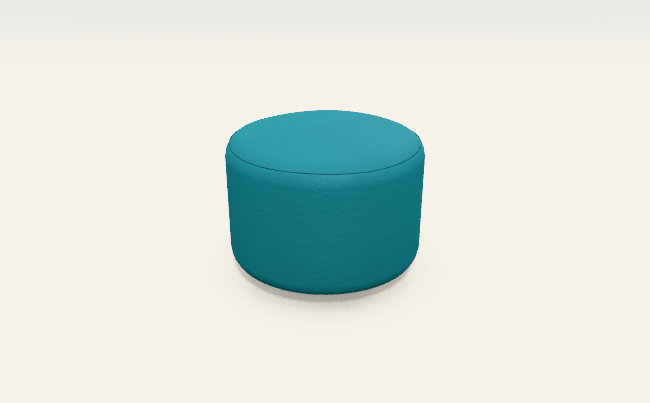
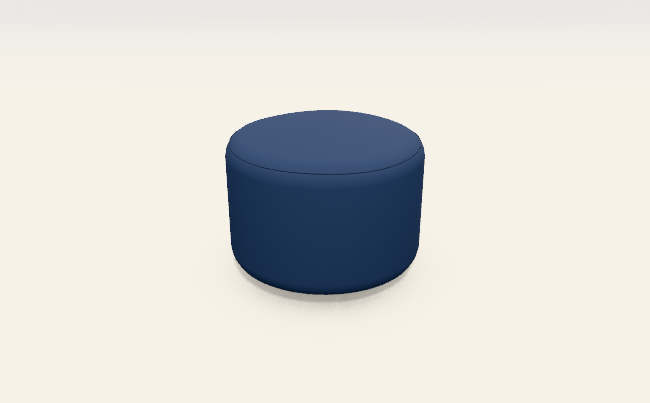
Stockholm pouf donkerblauw zoals op de foto; standaardstikking nagekeken en als vraag voor de klant genoteerd
Claude-Session: https://claude.ai/code/session_01PczewFp9M8BS44vqTSpk6u

Changed region(s): [[0.3385, 0.268, 0.6769, 0.7444]]

diff --git a/packages/core/voorbeelden/modellen.ts b/packages/core/voorbeelden/modellen.ts
@@ -465,7 +465,8 @@ export const zetelModellen: ModelDefinitie[] = [
     elementen: rij([['poef', 59, 59, { poefvorm: 'rond' }]]),
   }, 'P-Tumble', MATEN_WEBSITE),
   model('stockholm', 'Stockholm pouf', POEF, 'Ronde pouf in velours, in twee formaten.', {
-    hoofdmateriaal: 'velours_petrol', opties: { poten: 'verdekt', poothoogte: 'laag' }, elementen: rij([['poef', 60, 60, { poefvorm: 'rond' }]]),
+    // Op de foto donkerblauw (14/11). Geen eigen pagina met maten; op de foto loopt de pouf naar boven smaller toe.
+    hoofdmateriaal: 'chenille_nachtblauw', opties: { poten: 'verdekt', poothoogte: 'laag' }, elementen: rij([['poef', 60, 60, { poefvorm: 'rond' }]]),
   }, 'P-Stockholm'),
   model('kanto', 'Kanto pouf', POEF, 'Vierkante pouf, hier in een stof met patroon.', {
     hoofdmateriaal: 'jacquard_ruit', opties: { poten: 'verdekt', poothoogte: 'laag' }, elementen: rij([['poef', 45, 45, { poefvorm: 'vierkant' }]]),

diff --git a/docs/overdracht.md b/docs/overdracht.md
@@ -26,7 +26,7 @@
 | **Analyse ronde vormen (13/11)** | Vraag van Jonas: hoe gaan we om met ronde vormen, en wat kan beter (ook ongewone ideeën)? Alleen onderzoek, geen code gewijzigd. Verslag: `docs/analyse-ronde-vormen.md` (in Obsidian: *Analyse ronde vormen in de 3D*).<br>• **Twee manieren, geen van beide af:** *ringen* (10 kuipfauteuils, poefs: strak en licht, stof volgt de vorm, maar delen steken door elkaar: mes aan het wanduiteinde van Ross) en *raster* (Doha, Montego, Pebble, de armen: smelt samen, maar bobbelige naad, stof volgt de vorm niet, ±zes keer zoveel driehoeken, berekend).<br>• **Proef:** een raster van 1 cm lost de naad van Pebble niet op (vier keer zwaarder, eerder rafeliger). Gemeten oorzaak: waar de bovenrand van een wand steil zakt, rekent de motor de vorm fout (Pebble, Ross; niet bij Doha).<br>• **Advies, in volgorde:** (A) vier herstellingen (steile rand van een wand, kop en onderbouw van de fauteuils, rolarm, close-ups in de beeldvergelijking), (B) proef: het net van de ringen leggen op de zachte vorm, ook op een echte overgang (rug van Doha, arm bij *Zacht*), (C) ronde vormen als gegevens (ruggengraat met doorsneden) in plaats van code per model.<br>• **Wacht op Jonas:** mogen A en B gebouwd worden; tekeningen uit de 3D-vorm halen (verandert de tekeningen); een scan door de klant (raakt "geen scans"); productfoto's lokaal gebruiken om de vorm automatisch te laten passen. |
 | **Herstellingen ronde vormen (13/11)** | Na de analyse, met akkoord van Jonas ("1 ja"). Vier herstellingen, elk met tests en een eigen commit; verslag en beelden onderaan `docs/analyse-ronde-vormen.md`.<br>• **Steile rand van een wand** (`zachtevorm.ts`): de hoogte van de rand loopt nu vloeiend door (verstekken in plaats van het dichtste punt) en de afstand klopt. Punten met een verkeerde afstand of richting: Pebble 61 % → 0 %, Ross 74 % → 0 %. De naad van Pebble is strak; Doha en Montego ongewijzigd (0,00 %).<br>• **Kuipfauteuils:** ronde kop aan het wanduiteinde (vroeger een mes), onderbouw overal binnen de wand (vroeger een dun streepje bij Ross), ronde onderrand bij de zwevende schaal van Karl (zoals op de foto).<br>• **Arm met ronde bovenkant** (*rond*, *Engels*): één doorsnede zoals in het vooraanzicht en op de foto van Zora, met bies; vroeger een cilinder op een blok, hoger dan de tekening. Verandert de 3D van Zora, Mabel 2-zit en Mabel méridienne.<br>• **Beeldvergelijking:** drie close-ups erbij (`pebble-naad`, `ross-kop`, `zora-arm`).<br>• **Gecontroleerd:** prijs, offerte, boven- en vooraanzicht van de 42 modellen ongewijzigd; 256 tests.<br>• **Niet gepubliceerd:** de artifact en de configurators in `doorsturen/` staan nog op de versie van 5/11, tot Jonas de beelden goedkeurt.<br>• **Wacht op Jonas:** goedkeuring van de beelden; Mabel 2-zit is op de foto een kuip (rechtzetten raakt de prijs); bevestigen dat de tekeningen uit de 3D-vorm mogen komen (zijn antwoord "3 ja" gelezen als vraag 2); daarna de proef B (net van de ringen op de zachte vorm). |
 | **Fauteuils naar de productfoto's (13/11)** | Jonas over de herstellingen: "de stoelen lijken er totaal niet op". Alle veertien fauteuils naast hun productfoto's gelegd; lijst per model en beelden in `docs/nalopen-modellen.md`.<br>• **Oorzaak:** de opbouw. Bij de klant een dikke, vaste, ronde zitting met een dunne schaal erachter op een eigen onderstel; bij ons een dikke wand met een boogrug, een los kussen en gewone poten. Ook de maten weken af (de fauteuils hadden nooit de maten van de site gekregen).<br>• **Motor:** de echte opbouw als gegevens per model (`vormgeving.kuip`: `profiel`, `zitTrommel`, `zitRand`, `schaalOp`, `frameDik`), een bies langs de rand van de schaal, en twee nieuwe pootkeuzes in de catalogus (*Houten frame op vier poten*, *Vier poten met kruis*). Het type fauteuil mag tot 160 cm breed.<br>• **Beslist door Jonas:** maten van de site ja; vaste zitting en onderstel als echte keuzes ja; grens 160 cm ja; "eerst bijsturen": bij Mabel kwam de leuning te ver naar voren. Rechtgezet: ze stopt rond het midden van de zitdiepte en zakt tot op de zitting.<br>• **Omgebouwd:** Milton (963 → 884 euro), Mabel 1-zit (990 → 1.007) en Mabel 2-zit als kuip van 150 cm (1.552 → 1.163). Hun boven- en vooraanzicht zijn mee veranderd. De andere 39 modellen: prijs, tekeningen en 3D identiek; beeldvergelijking 0,00 %, met Milton en Mabel 2-zit als nieuwe referentie. 270 tests.<br>• **Oordeel van Jonas (13/11):** "Ja zijn goed zo, de mabel meridienne wijkt wel nog af. Graag alles op deze manier opbouwen." De bies en de poothoogte van Milton zijn daarmee aanvaard (zo gemeld aan Jonas). Vervolg: zie de volgende rij.<br>• **Open afwijking:** de zitdiepte van Mabel (site 49 cm, bij ons ±58 cm doordat de leuning 7 cm dik is).<br>• **Nog te doen daarna:** de sofa's, zetelbedden en poefs nalopen; de proef met het volgnet (Jonas: niet schrappen); de tekeningen uit de 3D-vorm (bevestigd).<br>• **Opvatting vastgelegd** (vraag van Jonas: "de nieuwe manier van 3D lijkt mij een stuk volwassener"): zeven regels bovenaan `docs/3d-technieken.md` (in Obsidian: *3D-technieken - kennisbank*), met de nieuwe werkwijze in tien stappen en vijf nieuwe lessen.<br>• Niets hiervan is gepubliceerd: de artifact en de configurators in `doorsturen/` staan nog op 5/11. |
-| **Alle fauteuils omgebouwd (13/11, vervolg)** | Na het akkoord van Jonas op Milton en de Mabels. Eén model per stap en per commit, telkens: maten van de site in een test, foto / vroeger / nu naast elkaar, boven- en vooraanzicht bekeken, prijs regel per regel, de andere modellen ongewijzigd (momentopname).<br>• **Omgebouwd** (prijs voor → na, alle prijzen verzonnen): Mabel méridienne als één kuip (1.938 → 1.401), Fraser (842 → 835), Satie met één rugkussen (1.018 → 959; melding van Jonas: "Satie heeft maar 1 kussen"), Quin met vier kussens zoals op de productpagina (1.341 → 1.393), Ross (768 → 806), Sullivan (998 → 954), Karl (990 → 970), Tumble (1.084 → 1.081), Manon (1.050 → 966) en de Amusette fauteuil op de maten van de site (1.520 → 1.473). Pebble bleef zoals goedgekeurd op 5/11. Tabel, beelden en open afwijkingen: `docs/nalopen-modellen.md`.<br>• **Motor, nieuw als gegevens per model:** schuine poten onder een frame (`framePoten`, `Blok.schuin`; ook Milton en Mabel), `zitNaad` (zitting in twee lagen), `zitIn` (de schaal steekt rond de trommel uit), `frameKruis` (ring met kruis), `kussenHoog`, losse kussens als lens die tegen de rand van de schaal leunen, een schaal op een bolle zitting (`schaalOp`) die aansluit op de zijkant. Boven- en vooraanzicht volgen (zelfde bron).<br>• **Rechtgezet onderweg:** rechte poten; een rugkussen dat van achter door de schaal stak; drie kussens die tot één rug versmolten; gedraaide kussens recht getekend in het bovenaanzicht; de rug van Tumble als losse rol boven de zitting. Twee leesfouten uit de eerste lijst: Manon is niet scheef maar symmetrisch, en de schaal van Fraser loopt tot onderaan.<br>• **Prijsregels uit de foto, niet apart gevraagd:** bies op Satie (+36), Ross (+29), Manon (+38) en Mabel méridienne (+52); poothoogte op maat (+40) bij Sullivan (vroeger een draaivoet). Gemeld aan Jonas.<br>• **Zitdiepte nagerekend:** bij Fraser, Ross, de Mabels, Sullivan, Tumble, Manon en Quin is de zitting 3 tot 13 cm dieper dan op de site, omdat onze schaal overal even dik is en recht staat. Voorstel in `docs/nalopen-modellen.md` (een schaal die dun is aan de rand en dikker bij de zitting); wacht op Jonas.<br>• **Wat nog afwijkt:** de rug van Sullivan helt op de foto achterover en de schaal van Manon waaiert uit (de motor kan een schaal niet laten hellen); het frame van Karl (achterpoten tot achter de rug); de vier kussens van Quin staan netter dan op de foto; armen even dik als de schaal (Ross, Sullivan); ronde in plaats van vierkante poten.<br>• **Controles:** 292 tests, typecheck, beeldvergelijking 0,00 % op alle bestaande beelden; nieuwe referenties voor Fraser, Satie, Quin, Karl en Tumble, de close-up `ross-kop` staat op de nieuwe armkop.<br>• **Hockers en poefs:** Sullivan hocker (62 × 62 × 42, zelfde onderstel als de fauteuil; 478 → 493), Tumble pouf (⌀ 59, hoogte 45, bol; 371 → 392) en Pebble pouf (82 × 61 × 42; 518 → 455). Een poef kan een eigen hoogte, een bolle rand en een rond frame krijgen. De Fraser en de Mabel hocker zijn niet aangeraakt (geen foto of maten).<br>• **Sofa's, zetelbedden en poefs nagelopen** (eerste doorgang op de kleine foto's, geen model gewijzigd): de opbouw van de veertien sofa's klopt; de zetelbedden Ziggy, Zora, Daizy Classic en Daizy Slim hebben op de site een technische tekening (zithoogte 47 of 50, diepte 98, armen 8 tot 14 cm breed en 60 tot 76 hoog) die niet in de modellen zit. Eerst als voorstel voorgelegd (prijs), **doorgevoerd op 14/11** na het antwoord van Jonas: Ziggy 2.470 → 2.835, Zora 2.301 → 2.621, Daizy Classic 2.253 → 2.550, Daizy Slim 2.172 → 2.463; Phoenix kreeg alleen zithoogte 46. Het type arm mag vanaf 8 cm (basisprijs blijft die van 12 cm). Ziggy heeft twee rugkussens en rolkussens, Zora één lang rugkussen. Blad en tabel in `docs/nalopen-modellen.md`.<br>• **Beslist door Jonas (14/11):** "Het zijn nog allemaal fictieve prijzen dus maakt niet uit, doe maar verder tot we perfecte 3D's hebben." **Nieuwe regel: zolang de prijzen verzonnen zijn, is de prijs geen rem meer op de gelijkenis.** Niet meer stoppen of wachten als een 3D-keuze de prijs, een keuze of een grens in de catalogus raakt; wel oud en nieuw blijven melden. De vier voorgelegde punten (zetelbedden op de maten van de tekening, arm vanaf 8 cm, schaal dikker bij de zitting, bies houden) gaan dus door. **Publiceren blijft wél wachten op zijn akkoord.**<br>• **De rug helt achterover (14/11):** nieuw gegeven `helling` per model. De schaal helt vanaf haar voet naar achteren en dooft uit naar de zijkanten; de zetel blijft binnen de diepte van de site. Sullivan (10,4°, zitting rond en 62 cm zoals zijn hocker, zitdiepte nu ±61 tegenover 60 op de site), Manon (9,5°), de drie Mabels (9,5°) en de rugschijf van Karl (12°), telkens op basis van een foto van opzij. Prijzen ongewijzigd. Blad in `docs/nalopen-modellen.md`.<br>• **Ook op 14/11:** stof en hout naar de foto voor Karl, Tumble, Mabel 2-zit (1.163 → 1.327), Milton en Ross (806 → 866); in het vooraanzicht staan sierkussens nu vóór de rugkussens (ze verdwenen erachter).<br>• **Tweede doorgang sofa's (14/11):** de zeven die nog nooit naast een grote foto lagen (Nestor, Belize, Pula, Fréjus, Gozo, Azar, Esmee). De opbouw klopt overal; de afwijkingen zijn details (kleur, armlijn van Esmee, dikkere armen van Fréjus). Geen model gewijzigd; tabel en bladen in `docs/nalopen-modellen.md`.<br>• **Poten vierkant (14/11):** de poten van het onderstel met frame zijn vierkant en lopen taps toe, zoals op de foto's (`Blok.vierkant`).<br>• **Vragen voor de klant** (niet gokken): maten en foto van de Fraser en de Mabel hocker; maten van de Pebble fauteuil; de breedte van de zetelbedden; welke hoogte de site bedoelt bij Satie en Quin (schaal of kussens); maten van Fréjus, Gozo, Azar, Husk en Esmee; maten van de poefs Stockholm, Kanto en Fez.<br>• **Nog te doen:** de details hierboven; de proef met het volgnet; de tekeningen uit de 3D-vorm; publiceren na akkoord.<br>• Niets hiervan is gepubliceerd: de artifact en de configurators in `doorsturen/` staan nog op 5/11. |
+| **Alle fauteuils omgebouwd (13/11, vervolg)** | Na het akkoord van Jonas op Milton en de Mabels. Eén model per stap en per commit, telkens: maten van de site in een test, foto / vroeger / nu naast elkaar, boven- en vooraanzicht bekeken, prijs regel per regel, de andere modellen ongewijzigd (momentopname).<br>• **Omgebouwd** (prijs voor → na, alle prijzen verzonnen): Mabel méridienne als één kuip (1.938 → 1.401), Fraser (842 → 835), Satie met één rugkussen (1.018 → 959; melding van Jonas: "Satie heeft maar 1 kussen"), Quin met vier kussens zoals op de productpagina (1.341 → 1.393), Ross (768 → 806), Sullivan (998 → 954), Karl (990 → 970), Tumble (1.084 → 1.081), Manon (1.050 → 966) en de Amusette fauteuil op de maten van de site (1.520 → 1.473). Pebble bleef zoals goedgekeurd op 5/11. Tabel, beelden en open afwijkingen: `docs/nalopen-modellen.md`.<br>• **Motor, nieuw als gegevens per model:** schuine poten onder een frame (`framePoten`, `Blok.schuin`; ook Milton en Mabel), `zitNaad` (zitting in twee lagen), `zitIn` (de schaal steekt rond de trommel uit), `frameKruis` (ring met kruis), `kussenHoog`, losse kussens als lens die tegen de rand van de schaal leunen, een schaal op een bolle zitting (`schaalOp`) die aansluit op de zijkant. Boven- en vooraanzicht volgen (zelfde bron).<br>• **Rechtgezet onderweg:** rechte poten; een rugkussen dat van achter door de schaal stak; drie kussens die tot één rug versmolten; gedraaide kussens recht getekend in het bovenaanzicht; de rug van Tumble als losse rol boven de zitting. Twee leesfouten uit de eerste lijst: Manon is niet scheef maar symmetrisch, en de schaal van Fraser loopt tot onderaan.<br>• **Prijsregels uit de foto, niet apart gevraagd:** bies op Satie (+36), Ross (+29), Manon (+38) en Mabel méridienne (+52); poothoogte op maat (+40) bij Sullivan (vroeger een draaivoet). Gemeld aan Jonas.<br>• **Zitdiepte nagerekend:** bij Fraser, Ross, de Mabels, Sullivan, Tumble, Manon en Quin is de zitting 3 tot 13 cm dieper dan op de site, omdat onze schaal overal even dik is en recht staat. Voorstel in `docs/nalopen-modellen.md` (een schaal die dun is aan de rand en dikker bij de zitting); wacht op Jonas.<br>• **Wat nog afwijkt:** de rug van Sullivan helt op de foto achterover en de schaal van Manon waaiert uit (de motor kan een schaal niet laten hellen); het frame van Karl (achterpoten tot achter de rug); de vier kussens van Quin staan netter dan op de foto; armen even dik als de schaal (Ross, Sullivan); ronde in plaats van vierkante poten.<br>• **Controles:** 292 tests, typecheck, beeldvergelijking 0,00 % op alle bestaande beelden; nieuwe referenties voor Fraser, Satie, Quin, Karl en Tumble, de close-up `ross-kop` staat op de nieuwe armkop.<br>• **Hockers en poefs:** Sullivan hocker (62 × 62 × 42, zelfde onderstel als de fauteuil; 478 → 493), Tumble pouf (⌀ 59, hoogte 45, bol; 371 → 392) en Pebble pouf (82 × 61 × 42; 518 → 455). Een poef kan een eigen hoogte, een bolle rand en een rond frame krijgen. De Fraser en de Mabel hocker zijn niet aangeraakt (geen foto of maten).<br>• **Sofa's, zetelbedden en poefs nagelopen** (eerste doorgang op de kleine foto's, geen model gewijzigd): de opbouw van de veertien sofa's klopt; de zetelbedden Ziggy, Zora, Daizy Classic en Daizy Slim hebben op de site een technische tekening (zithoogte 47 of 50, diepte 98, armen 8 tot 14 cm breed en 60 tot 76 hoog) die niet in de modellen zit. Eerst als voorstel voorgelegd (prijs), **doorgevoerd op 14/11** na het antwoord van Jonas: Ziggy 2.470 → 2.835, Zora 2.301 → 2.621, Daizy Classic 2.253 → 2.550, Daizy Slim 2.172 → 2.463; Phoenix kreeg alleen zithoogte 46. Het type arm mag vanaf 8 cm (basisprijs blijft die van 12 cm). Ziggy heeft twee rugkussens en rolkussens, Zora één lang rugkussen. Blad en tabel in `docs/nalopen-modellen.md`.<br>• **Beslist door Jonas (14/11):** "Het zijn nog allemaal fictieve prijzen dus maakt niet uit, doe maar verder tot we perfecte 3D's hebben." **Nieuwe regel: zolang de prijzen verzonnen zijn, is de prijs geen rem meer op de gelijkenis.** Niet meer stoppen of wachten als een 3D-keuze de prijs, een keuze of een grens in de catalogus raakt; wel oud en nieuw blijven melden. De vier voorgelegde punten (zetelbedden op de maten van de tekening, arm vanaf 8 cm, schaal dikker bij de zitting, bies houden) gaan dus door. **Publiceren blijft wél wachten op zijn akkoord.**<br>• **De rug helt achterover (14/11):** nieuw gegeven `helling` per model. De schaal helt vanaf haar voet naar achteren en dooft uit naar de zijkanten; de zetel blijft binnen de diepte van de site. Sullivan (10,4°, zitting rond en 62 cm zoals zijn hocker, zitdiepte nu ±61 tegenover 60 op de site), Manon (9,5°), de drie Mabels (9,5°) en de rugschijf van Karl (12°), telkens op basis van een foto van opzij. Prijzen ongewijzigd. Blad in `docs/nalopen-modellen.md`.<br>• **Ook op 14/11:** stof en hout naar de foto voor Karl, Tumble, Mabel 2-zit (1.163 → 1.327), Milton en Ross (806 → 866); in het vooraanzicht staan sierkussens nu vóór de rugkussens (ze verdwenen erachter).<br>• **Tweede doorgang sofa's (14/11):** de zeven die nog nooit naast een grote foto lagen (Nestor, Belize, Pula, Fréjus, Gozo, Azar, Esmee). De opbouw klopt overal; de afwijkingen zijn details (kleur, armlijn van Esmee, dikkere armen van Fréjus). Geen model gewijzigd; tabel en bladen in `docs/nalopen-modellen.md`.<br>• **Poten vierkant (14/11):** de poten van het onderstel met frame zijn vierkant en lopen taps toe, zoals op de foto's (`Blok.vierkant`).<br>• **Vragen voor de klant** (niet gokken): maten en foto van de Fraser en de Mabel hocker; maten van de Pebble fauteuil; de breedte van de zetelbedden; welke hoogte de site bedoelt bij Satie en Quin (schaal of kussens); maten van Fréjus, Gozo, Azar, Husk en Esmee; maten van de poefs Stockholm, Kanto en Fez; wat de site bedoelt met de standaardstikking per model ("single stitching" bij Azar, Belize en Nestor, "external stitching" bij Gozo: onze catalogus kent alleen een gewone naad, een platte naad, een bies en een dubbele sierstiksel).<br>• **Nog te doen:** de details hierboven; de proef met het volgnet; de tekeningen uit de 3D-vorm; publiceren na akkoord.<br>• Niets hiervan is gepubliceerd: de artifact en de configurators in `doorsturen/` staan nog op 5/11. |
 | **3D-kennisbank en advies ramen en deuren (4/11)** | `docs/3d-technieken.md` (in Obsidian: *3D-technieken - kennisbank*):<br>• alle 3D-technieken op een rij (blokken, eigen doorsnede, zachte vormen, doorlopende opbouw, boog, echt 3D-bestand, weergave, snelheid): wat ze doen, waarvoor wel en niet, rekentijd, waar in de code;<br>• de lessen (eigen vorm per type, eerst de opbouw, grote foto's van de productpagina, vergelijkingsbeeld, benaderingen markeren, 3D-keuze kan de prijs raken);<br>• een werkwijze voor een nieuw model of product;<br>• **advies ramen en deuren** (vraag: "is deze techniek voor 3D bruikbaar voor ramen en deuren?", nog niet gebouwd): de zachte vormen niet; wel een eigen doorsnede per profielsysteem (verstek, doorsnedetekening, rondboog; DXF van de leverancier), echte 3D-bestanden voor krukken en trekbeugels; de weergave is al gedeeld. |
 | **Doorlopende zetel: Doha en Montego (4/11)** | Melding: "Montego en Doha zien er in de 3D identiek uit" en "groot verschil qua opbouw" met de foto; daarna "we maken progressie maar is nog niet af". Oorzaak: beide waren losse elementen naast elkaar; op de foto's (de grote van de productpagina's) is elk één doorlopende zetel.<br>• **Nieuw in de vormgeving van de zetel:** *Opbouw in 3D* (*Per element* of *Doorlopend (één zetel)*) en *Boog bij doorlopend* (0–60 cm, de uiteinden naar voren). Motor: `core/src/doorlopend.ts`.<br>• **Doorlopend:** met losse zitkussens twee ronde banden (zitting rondom, onderbouw 3 cm terug, diepe naad), met een vaste zitting één ronde vorm; één rug langs de achterkant. Bij een afgerond uiteinde volgt de rug *Rug bij de ronde kant*: *rond* = korte omloop als armleuning op volle hoogte (tot ±32 % van de diepte), *recht* = de rug stopt met een ronde kop ±40 % van het eindelement ver en de zitting loopt verder. Een dieper element loopt vloeiend over in de rest (1,6 × het diepteverschil aan elke kant, 25–70 cm). Onderbouw en rug zijn één zachte vorm, ook bij *Blokken*.<br>• **Doha:** loungedeel links 145 cm diep, zitting 22 cm, armleuningen aan beide kanten, oranje en lichtgrijs sierkussen. **Montego:** vaste zitting, rug aan beide kanten alleen op het rechte deel, boog van 30 cm. Allemaal benaderingen uit de foto's.<br>• **Schaduw:** buren met een vrije omtrek (zitkussen) of gebogen wand tellen nu met hun echte vorm (vroeger als doos rond hun kader: grijze vlekken waar niets staat); het zitkussen krijgt schaduw van de rug.<br>• **Rekenen:** in de achtergrond (eerst de gewone vorm), ±0,3–0,7 s; tabellen in het grondvlak voor lange omtrekken en wanden (2 à 3 × sneller).<br>• **Blijft per element:** prijs, offerte, boven- en vooraanzicht (de boog alleen in 3D). Let op: de offerte toont dus in 3D één zetel en in de tekeningen de losse elementen. Alleen een rechte rij: bij een hoeksofa doet alleen de langste rechte rij mee (niet getest).<br>• Beeld: `docs/afbeeldingen/doorlopende-zetel.jpg`; uitleg in `docs/zachte-vormen.md`. |
 | **Strakke arm met eigen vorm (4/11)** | Na de zachte vormen: de strakke arm (16 van de 21 modellen met armen) is een eigen doorsnede (`strakProfiel` in `ruimtelijk.ts`), in alle weergaven en in het vooraanzicht.<br>• **Vorm:** zacht afgeronde, licht bolle bovenkant, licht bolle zijkanten, een voorpaneel met afgeronde rand dat in het midden bol staat; hoe zacht volgt de zachtheid van het model. Met een hoes loopt de arm tot op de vloer (Husk).<br>• **Naad of bies rond het voorpaneel** van elke arm met een eigen vorm (ook Wallace), volgens *Naden*.<br>• **Sneller:** grote zetels (meer dan 3 m³) met een raster van 2,5 cm bij *Zacht*; ±0,2–0,7 s per sofa.<br>• **Nog als balk:** rolarm, Engels, schuin, met houten blad, en de rug en onderbouw.<br>• Beeld: `docs/afbeeldingen/strakke-arm.jpg`; uitleg in `docs/zachte-vormen.md`. |

diff --git a/docs/nalopen-modellen.md b/docs/nalopen-modellen.md
@@ -338,8 +338,10 @@ model gewijzigd.
 | Azar | Klopt: open loungedeel links, twee zitten, hoge blokarm rechts. | Het leder is op de foto donkerder bruin; vijf sierkussens in plaats van drie. |
 | Esmee | Klopt: hoes tot op de vloer, uitlopende armen, één lang zitkussen. | Op de foto loopt de bovenlijn van de arm in een boog af van de rug naar voren; bij ons is ze vlak. |
 
-De standaardstikking uit de paginatekst (Husk: enkele stiksel met bies; Attribute: met boord; Azar, Belize en Nestor:
-enkele stiksel; Gozo: stiksel aan de buitenkant) is nog niet vergeleken met de keuze *Naden* per model.
+De standaardstikking uit de paginatekst is vergeleken met de keuze *Naden* per model. Amusette (gewone naad),
+Attribute (met boord) en Husk (stiksel met bies) kloppen. Azar, Belize en Nestor hebben op de site een "enkele
+stiksel" en Gozo een "stiksel aan de buitenkant": die keuze bestaat niet in onze catalogus (gewone naad, platte naad,
+bies, dubbele sierstiksel). Niet omgezet; het staat bij de vragen voor de klant.
 
 ### De zetelbedden op de maten van de tekening (doorgevoerd op 14/11)
 
